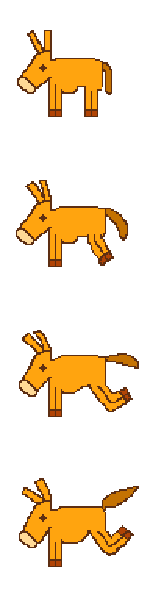
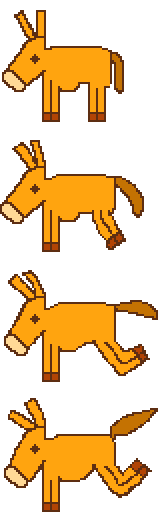
ball added && collision logic made && game over made && menu semi setup

Changed region(s): [[0.0, 0.0, 0.9067, 0.4923], [0.0, 0.5231, 1.0, 0.7385], [0.0, 0.7385, 1.0, 0.9846]]

diff --git a/src/scenes/Play.js b/src/scenes/Play.js
@@ -47,14 +47,13 @@ class Play extends Phaser.Scene {
 
         // add high score (text red (text: 0xffb59e outline: 0xa80203) -- number green (text: 0xe6ff99 outline: 0x038500))
         this.highScore = 0
+        if (game.highScore > 0) {
+            this.highScore = game.highScore
+        }
         this.scoreLeft = this.add.text(60, 50, 'HIGH SCORE', highScoreConfig)
         this.scoreLeft.setStroke('#a80203', 10)
         this.score2Left = this.add.text(30, 100, this.highScore, numbersConfig)
         this.score2Left.setStroke('#038500', 10)
-
-        if (game.scoreBank > 0) {
-            this.highScore = game.scoreBank
-        }
 
         // add player score w/ chosen name (text blue (text: 0x58ffff outline: 0x049da2) -- number green (text: 0xe6ff99 outline: 0x038500))
         this.pScore = 0
@@ -102,26 +101,23 @@ class Play extends Phaser.Scene {
             key: 'donkeyUp',
             frames: this.anims.generateFrameNumbers('donkey', { start: 0, end: 3, first: 0}),
             frameRate: 10,
-            repeat: -1,
         })
         this.anims.create({
             key: 'donkeyDown',
-            frames: this.anims.generateFrameNumbers('donkey', { start: 0, end: 3, first: 0}).reverse(),
+            frames: this.anims.generateFrameNumbers('donkey', { start: 3, end: 0, first: 0}),
             frameRate: 10,
-            repeat: -1,
         })
 
         // add donkeys
         this.donkeyRight = new Donkey(this, 625, game.config.height / 1.5, 'donkey').setFlipX(true).setOrigin(0, 0)
-        this.donkeyRight.body.setSize(95, 85).setOffset(40, 30)
-        //this.donkeyRight.anims.play('donkeyDown')
+        this.donkeyRight.body.setSize(30, 80).setOffset(35, 35)
 
         this.donkeyLeft = new Donkey(this, 30, game.config.height / 1.5, 'donkey').setOrigin(0, 0)
-        this.donkeyLeft.body.setSize(95, 85).setOffset(19, 30)
-        //this.donkeyLeft.anims.play('donkeyUp')
+        this.donkeyLeft.body.setSize(30, 80).setOffset(85, 35)
 
         // add ball (0xffb59e outline: 0xa80203)
-        this.add.image(390, 359, 'ball')
+        this.ball = new Ball(this, 390, 359, 'ball').setOrigin(0, 0)
+        this.ball.body.setSize(8, 15).setOffset(22, 17)
 
         // bind keys
         keyD = this.input.keyboard.addKey(Phaser.Input.Keyboard.KeyCodes.D)
@@ -130,40 +126,99 @@ class Play extends Phaser.Scene {
     }
 
     update() {
+        if(this.gameOver) {
+            this.add.text(400, 400, 'game over :(')
+            this.add.text(400, 500, 'press D for menu')
+            this.add.text(400, 600, 'press K to restart')
+
+            // back to menu
+            if(Phaser.Input.Keyboard.JustDown(keyD)) {
+                game.carryover = this.highScore
+                this.scene.start("menuScene")
+            }
+            if(Phaser.Input.Keyboard.JustDown(keyK)) {
+                game.highScore = this.highScore
+                this.scene.restart()
+            }
+        }
+
         // update high score
-        if(this.highScore < this.pScore) {
+        if (this.highScore < this.pScore) {
             this.highScore = this.pScore
             this.score2Left.text = this.highScore
         }
 
-        // ball movement
-            // if ball off screen 
-                // delete ball
-                // game over
-            // if donkey hit ball
-                // reverse direction w/ random velocity
-                // add 100? to score
+        // ball movement  
+
+        // if ball off screen 
+            // delete ball
+            // game over
+        if (this.ball.x > 750 || this.ball.x < 0) {
+            this.ball.destroy()
+            this.gameOver = true    
+        }  
+
+        // collision physics
+        this.physics.add.collider(this.ball, this.donkeyLeft)
+        this.physics.add.collider(this.ball, this.donkeyRight)            
+
+        // check for collisions and handle is true
+        if(this.checkCollision(this.donkeyLeft, this.ball) && this.ball.x < 160 && this.ball.x > 150) {
+            this.handleBounce(this.ball, this.donkeyLeft) 
+            console.log('hit!')
+
+        }
+        if(this.checkCollision(this.donkeyRight, this.ball) && this.ball.x < 620 && this.ball.x > 610) {
+            this.handleBounce(this.ball, this.donkeyRight)
+            console.log('hit!')
+        }
         
-        // look for user input
-            // if yes call donkey update
-            // play jump sound
-            // play animation?
-        if (Phaser.Input.Keyboard.JustDown(keyD)) {
+        // play jump sound
+        // make donkeys jump
+        if (!this.gameOver && Phaser.Input.Keyboard.JustDown(keyD)) {
             this.donkeyLeft.update()
-            this.pScore += 10
-            this.score2Right.text = this.pScore
         }
-        if (Phaser.Input.Keyboard.JustDown(keyK)) {
+        if (!this.gameOver && Phaser.Input.Keyboard.JustDown(keyK)) {
             this.donkeyRight.update()
-        }
-
-
-        // game over
-        if(this.gameOver && Phaser.Input.Keyboard.JustDown(keyD)) {
-            game.carryover = this.highScore
-            this.scene.start("menuScene")
         }
         
     }
 
+    // check collisions
+    checkCollision(donkey, ball) {
+        // simple AABB checking
+        if (donkey.x < ball.x + ball.width &&
+        donkey.x + donkey.width > ball.x &&
+        donkey.y < ball.y + ball.height &&
+        donkey.height + donkey.y > ball.y) {
+            return true
+        } else {
+            return false
+        }
+    }
+
+    handleBounce(ball, donkey) {
+        // check if ball can change direction
+        if (!ball.hitCooldown) { 
+            // reverse X direction & keep Y constant
+            ball.body.setVelocityX(-ball.body.velocity.x)
+            ball.body.setVelocityY(0) 
+            
+            // increase score & update score
+            this.pScore += 100
+            this.score2Right.text = this.pScore
+
+            // animation
+            donkey.anims.play('donkeyUp')
+            donkey.anims.play('donkeyDown')
+            
+            // set cooldown flag
+            ball.hitCooldown = true 
+    
+            // reset cooldown after 100ms to allow another bounce
+            this.time.delayedCall(1000, () => {
+                ball.hitCooldown = false
+            })
+        }
+    }
 }

diff --git a/src/scenes/Menu.js b/src/scenes/Menu.js
@@ -6,8 +6,8 @@ class Menu extends Phaser.Scene {
     preload() {
         // load everything :D
         this.load.spritesheet('donkey', './assets/donkey.png', {
-            frameWidth: 150,
-            frameHeight: 150,
+            frameWidth: 160,
+            frameHeight: 130,
             startFrame: 0,
             endFrame: 3,
         })
@@ -15,9 +15,12 @@ class Menu extends Phaser.Scene {
     }
 
     create() {
-        this.add.rectangle(0, 0, game.config.width, game.config.height, 0x7fe3ea).setOrigin(0, 0)
+        this.add.rectangle(0, 0, game.config.width, game.config.height, 0x7bd6e3).setOrigin(0, 0)
 
         // add basic title for now
+        this.add.text(300, 400, 'Super Donkey Bros.')
+        this.add.text(300, 500, 'press K to play')
+        this.add.text(300, 600, 'press D for credits')
 
         // ideally add animated title!
 
@@ -26,7 +29,12 @@ class Menu extends Phaser.Scene {
         keyK = this.input.keyboard.addKey(Phaser.Input.Keyboard.KeyCodes.K)
 
         // high score
-        game.scoreBank = game.carryover
+        if (game.carryover > 0) {
+            game.highScore = game.carryover
+        } else {
+            game.highScore = 0
+        }
+        console.log(game.highScore)
     }
 
     update() {
@@ -35,10 +43,13 @@ class Menu extends Phaser.Scene {
             // loop true
         
         // if user selects play
+        if(Phaser.Input.Keyboard.JustDown(keyK)) {
             this.scene.start('playScene')
+        }
 
-        // if user selects credits
-            //this.scene.start('creditsScene')
+        if (Phaser.Input.Keyboard.JustDown(keyD)) {
+            this.scene.start('creditsScene')
+        }
     }
 
 }

diff --git a/src/prefabs/Ball.js b/src/prefabs/Ball.js
@@ -1,0 +1,22 @@
+class Ball extends Phaser.GameObjects.Sprite {
+    constructor(scene, x, y, texture, frame) {
+        super(scene, x, y, texture, frame)
+
+        // add object to existing scene
+        scene.add.existing(this)   
+        scene.physics.add.existing(this)  
+
+        this.body.allowGravity = false
+        this.body.setCollideWorldBounds(false)
+        this.body.setImmovable(true)
+
+        this.body.velocity.x = 300
+        this.body.velocity.y = 0
+        this.body.setBounce(1, 1)
+    }
+
+    update() {
+
+    }
+
+}

diff --git a/src/prefabs/Donkey.js b/src/prefabs/Donkey.js
@@ -7,6 +7,7 @@ class Donkey extends Phaser.GameObjects.Sprite {
         scene.physics.add.existing(this)  
     
         this.body.setCollideWorldBounds(true)
+        this.body.setImmovable(true)
     }
 
     update() {           
@@ -15,10 +16,6 @@ class Donkey extends Phaser.GameObjects.Sprite {
             if (!this.body.onFloor()) { return }
             this.body.setVelocityY(-1500)
         }
-    }
-    
-    reset() {
-
     }
 
 }

diff --git a/index.html b/index.html
@@ -7,6 +7,7 @@
 
     <script src="./lib/phaser.js"></script>
     <script src="./src/prefabs/Donkey.js"></script>
+    <script src="./src/prefabs/Ball.js"></script>
     <script src="./src/scenes/Menu.js"></script>
     <script src="./src/scenes/Credits.js"></script>
     <script src="./src/scenes/NameSelect.js"></script>
